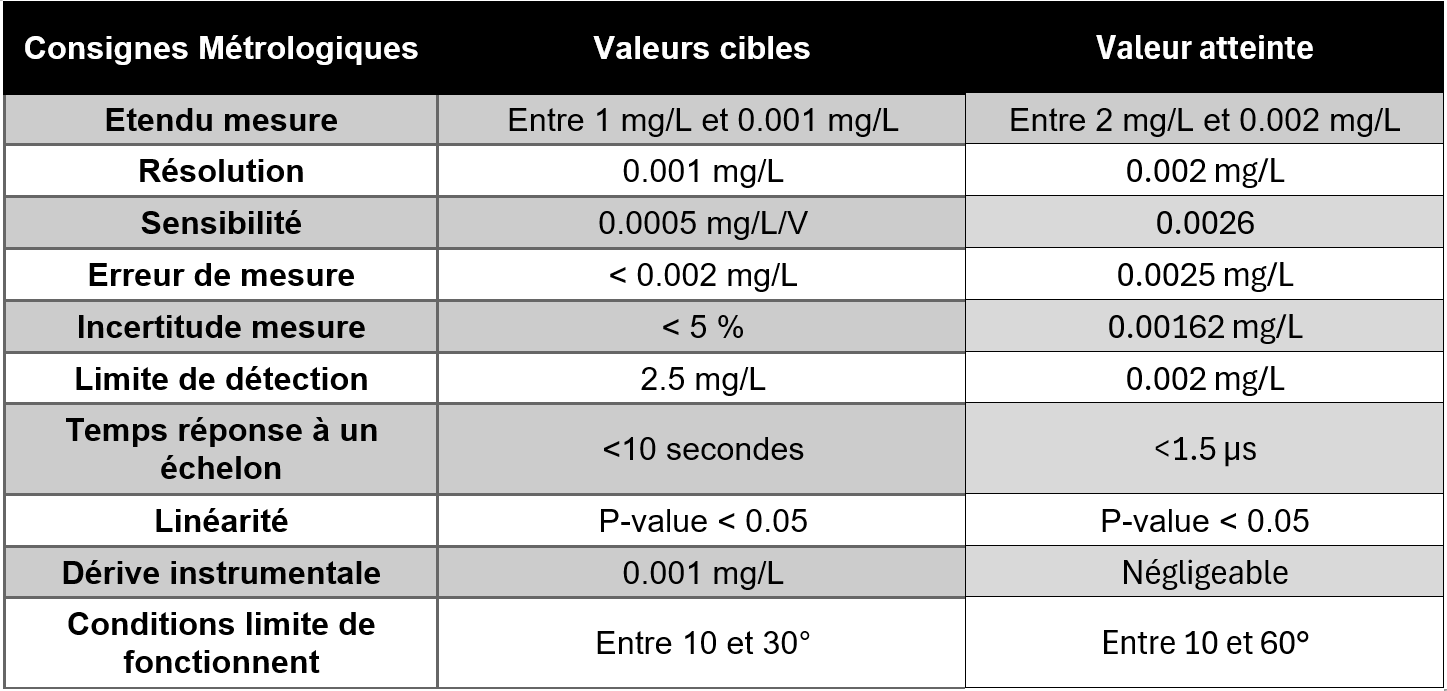
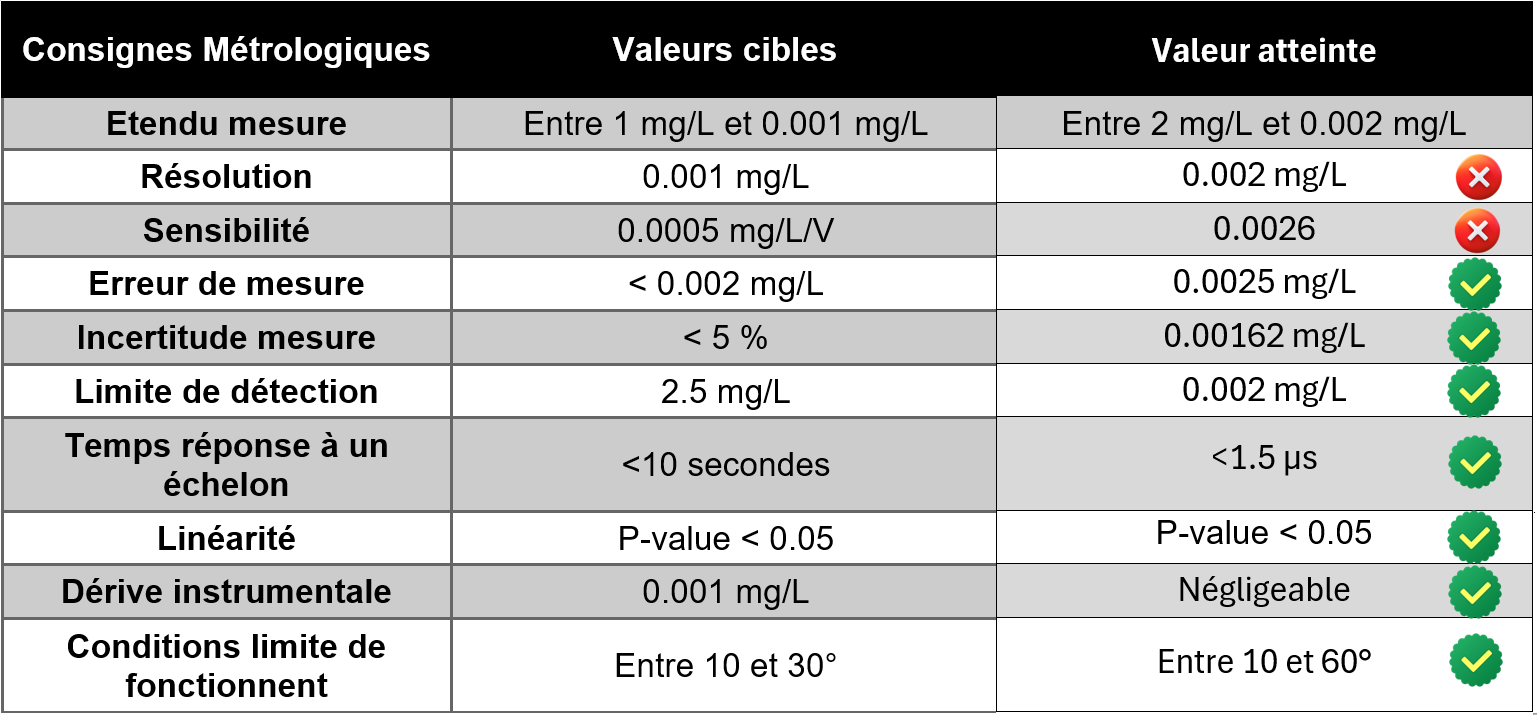
uyevf uyegy_f

diff --git a/src/content/work/nested/Projet Spectrometre.md b/src/content/work/nested/Projet Spectrometre.md
@@ -89,6 +89,11 @@ Nous allons réaliser différentes tests pour attester de la fiabilité et de la
     <p style="margin-left:10px;">On effectue 5 mesures et nous comparons leur équation de régression linéaire pour déterminer si nous conservons bien le comportement linéaire de notre mesure, ici, nous pouvons constater que c'est bien le cas d'un point de vue graphique et sur les valeurs de coefficients de l'équation de droite.</p>
 </div>
 
+<div style="display:flex; align-items:center;">
+    <img src="/assets/cahierdeschargesvf.png"  width="50%" style="margin-right:10px;">
+    <p style="margin-left:10px;">Ainsi, nous avons pû rédiger un tableau comparatif complets entre notre cahier des charges et nos résultats à la fin de notre projet.</p>
+</div>
+
 #### Page web
 
 <div style="display:flex; justify-content:center;">
